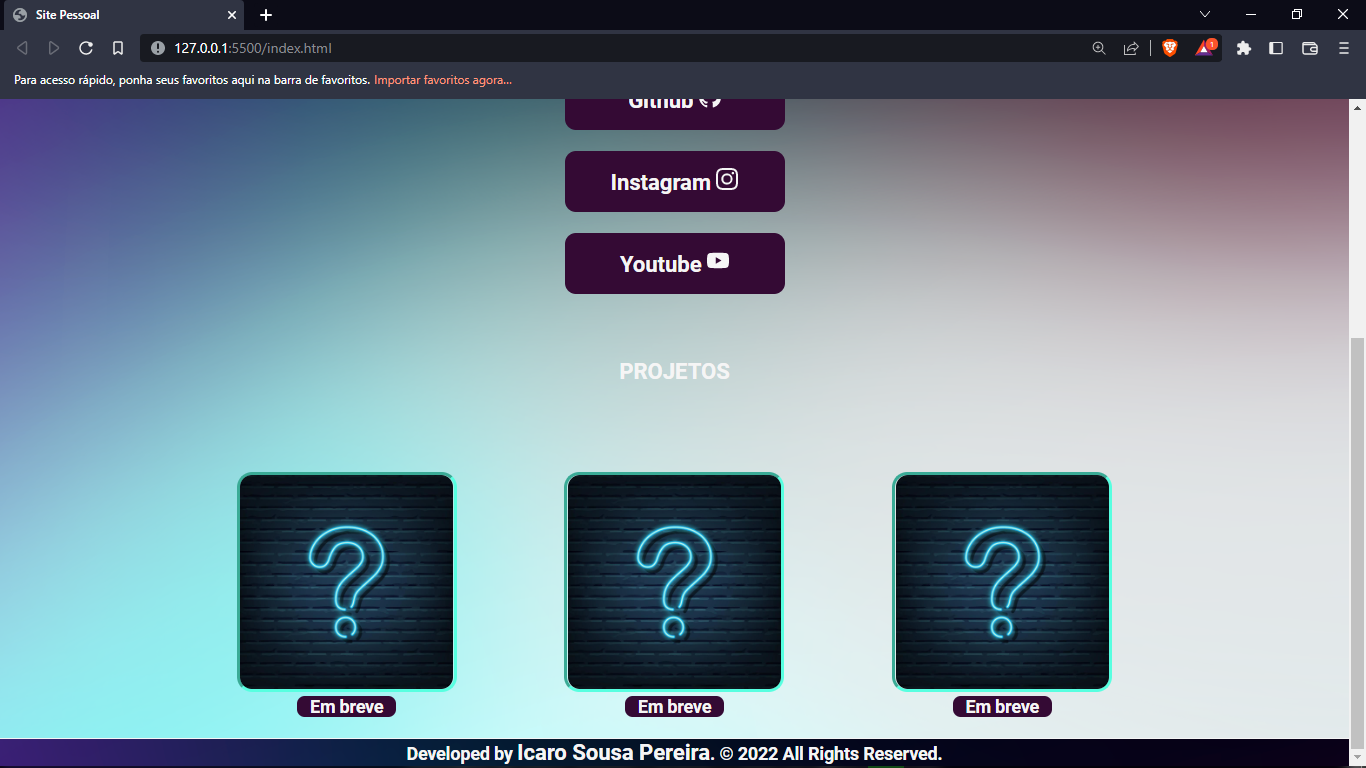
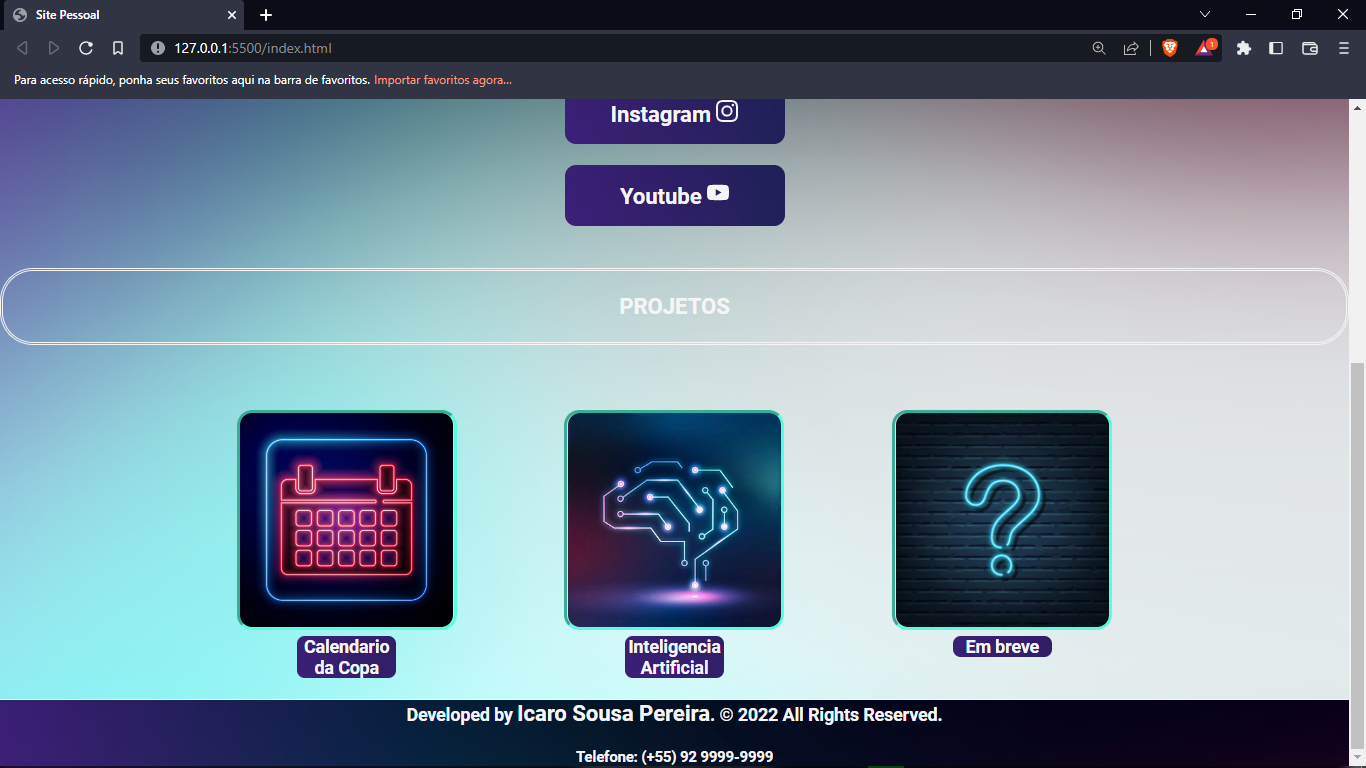
6 commit

diff --git a/main.js b/main.js
@@ -22,6 +22,6 @@ document.querySelector("#cards").innerHTML =
 // os intens estanos na seguinte ordem: ( PROJETO, PREVIEW, LINK )
 createCard("Calendario da Copa", "calendario", "https://github.com/Icaro5654/Calendario-da-Copa.git") + 
 
-createCard("Inteligencia Artificial", "IA", "#") + 
+createCard("Inteligencia Artificial", "IA", "https://github.com/Icaro5654/Sentimentos_com_IA.git") + 
 
 createCard("Em breve", "surpresa", "#")
